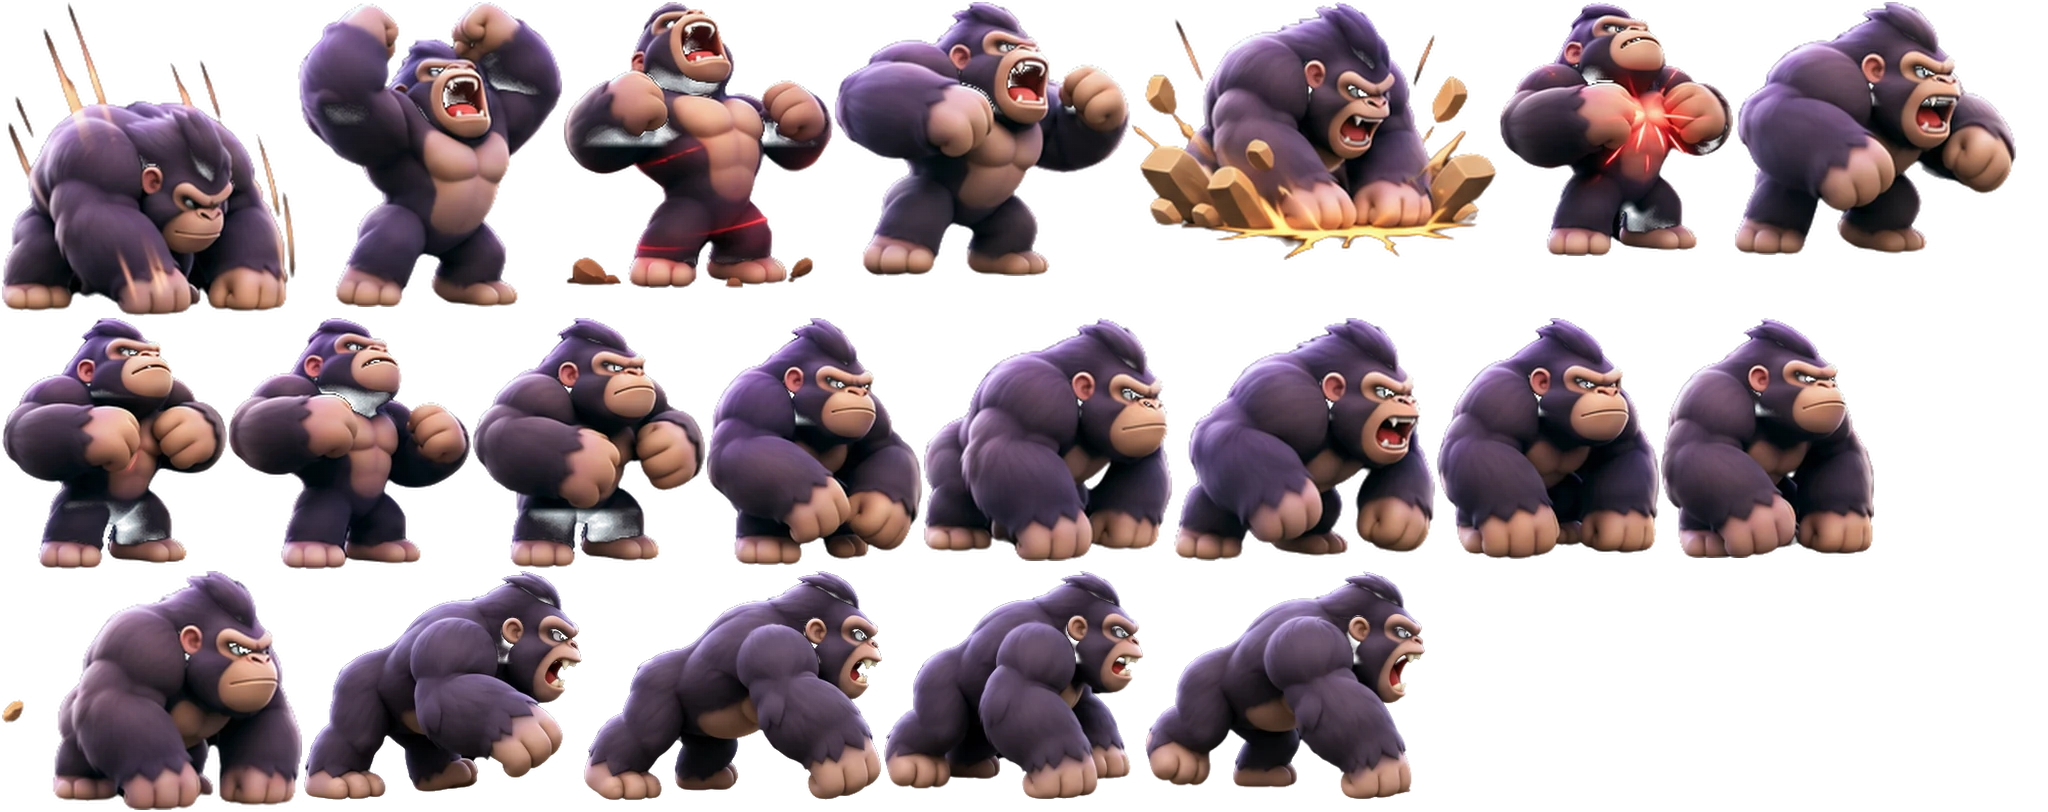
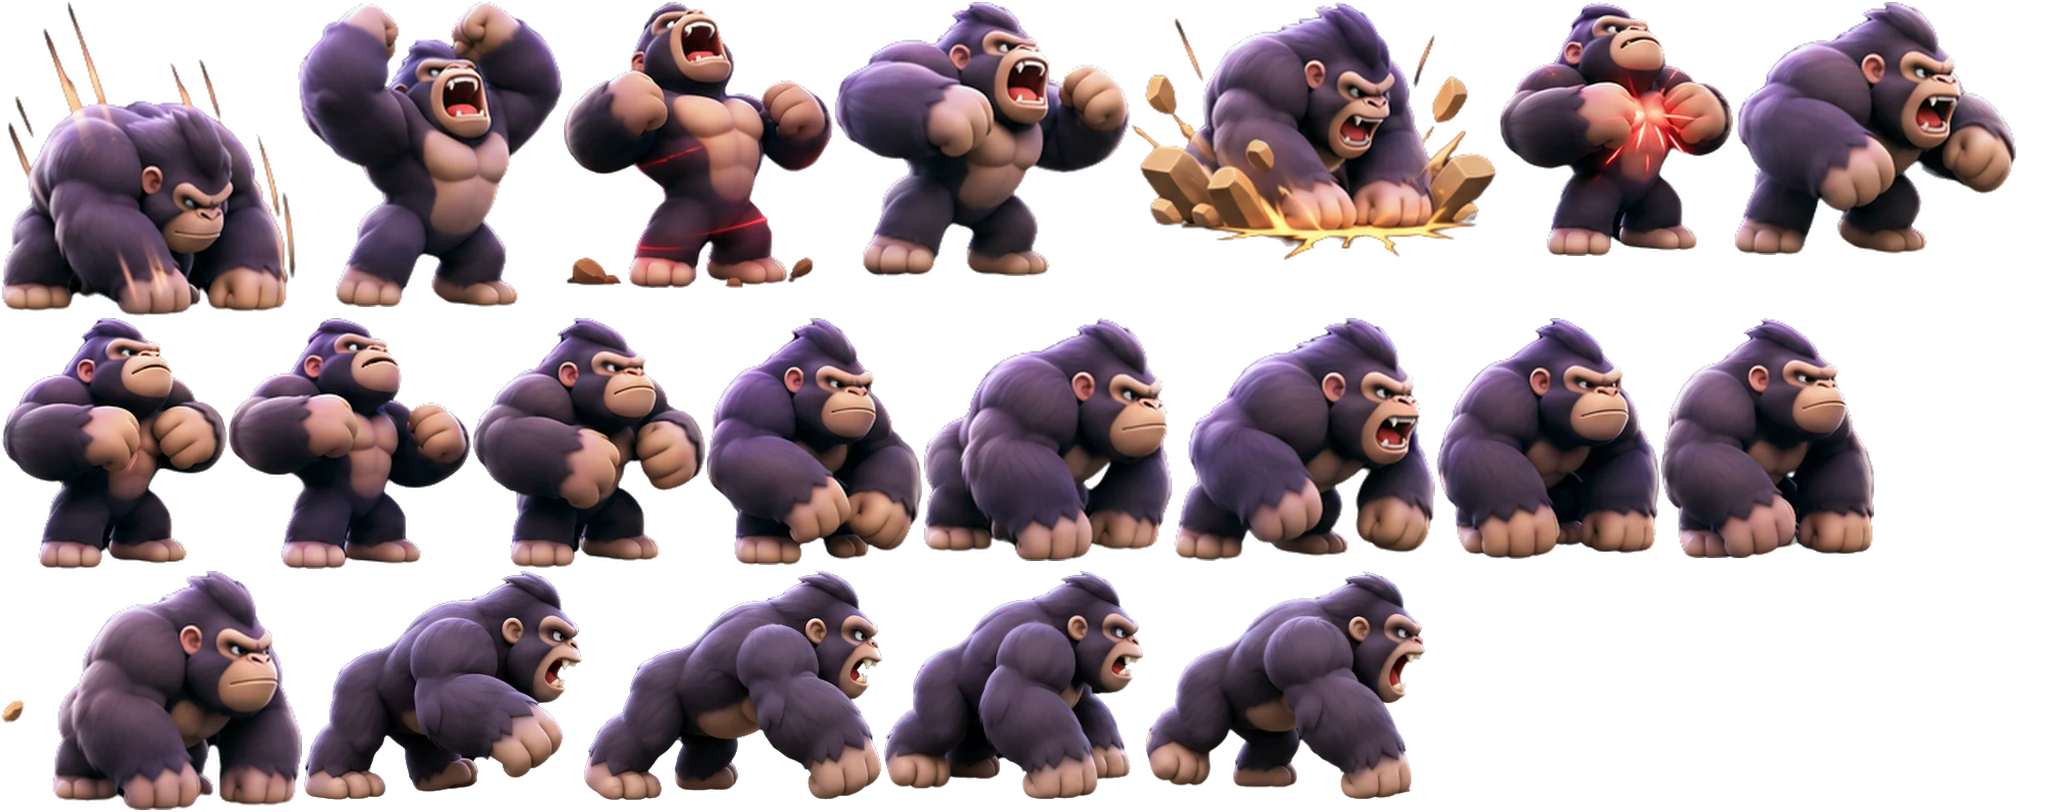
Animations d'attaque sans halos noirs et icône Collection entière
- Effets d'attaque nettoyés (rhinocéros, bouledogue, alligator, aigle, cochon) :
  le fond noir sur lequel ils étaient peints devient transparent ou une lueur
  translucide ; le corps des animaux n'est jamais modifié.
- Plus de trous dans les yeux, la bouche et la fourrure sombre (aigle, gorille,
  éléphant) : l'ancien détourage des planches n'est plus utilisé.
- Aigle, attaque 2 vers la droite : l'image au bec coupé est retirée.
- Onglet Collection : l'icône de l'onglet actif est recopiée au-dessus des pages,
  la liste passe dessous au lieu de la couper.
- Planches en ?v=4 et service worker bb-v8 pour ne plus servir les anciennes.

Claude-Session: https://claude.ai/code/session_011Z415w96nYMxDJBnjhLAvG

diff --git a/src/ui/menu.js b/src/ui/menu.js
@@ -91,7 +91,18 @@ async function fitImages() {
   });
   const stale = FIT; FIT = fit;
   if (stale) TABS.forEach((t) => { const im = stale.bg[t]; if (im !== SRC[t].bg && im !== fit.bg[t] && im.close) im.close(); });   // anciennes images réduites
+  drawCap();
   if (panes[tab]) layout();
+}
+// L'icône de l'onglet actif est aussi recopiée par-dessus les pages : une liste qui descend jusqu'à la barre du bas
+// (la collection) passe dessous au lieu de la couper.
+const capCv = $('navCap'), capCtx = capCv.getContext('2d');
+function drawCap() {
+  if (!FIT || !FIT.cap[tab]) return;
+  const [bx, by, bw, bh] = FIT.box[tab], k = FIT.k;
+  if (capCv.width !== bw || capCv.height !== bh) { capCv.width = bw; capCv.height = bh; } else capCtx.clearRect(0, 0, bw, bh);
+  capCtx.drawImage(FIT.cap[tab], 0, 0);
+  Object.assign(capCv.style, { left: bx / k + 'px', top: by / k + 'px', width: bw / k + 'px', height: bh / k + 'px' });
 }
 // Décode les images du décor (à appeler une fois, après le chargement et avant d'afficher les menus)
 export async function prepare() {
@@ -165,7 +176,7 @@ function setTab(t) {
   tab = t; mount(t).pg.id = 'page';
   const nav = $('nav'); nav.textContent = '';
   NAV[t].forEach(([x0, x1], i) => nav.append(h('button', { class: 'hit', 'aria-label': TABS[i], style: { left: x0 + 'px', top: '0', width: (x1 - x0) + 'px', height: '172px' }, onclick: () => go(TABS[i]) })));
-  liftFixed(); refreshTop();
+  liftFixed(); refreshTop(); drawCap();
 }
 // Place les pages et redessine le décor pour la position actuelle de la rangée
 function layout() {

diff --git a/src/core/assets.js b/src/core/assets.js
@@ -39,8 +39,9 @@ export function json(key, path) {
   return pending['j:' + key] || (pending['j:' + key] = fetch('assets/' + path).then((r) => r.json()).then((j) => { DATA[key] = j; return j; }).catch((e) => { console.warn('json manquant :', key, e); return null; }).finally(() => delete pending['j:' + key]));
 }
 // Ce qu'il faut pour dessiner un animal en combat (hd : la grande planche de l'aperçu de la collection)
-// (?v=2 : les planches du Singe et du Bulldog ont changé de forme, l'ancienne copie gardée hors ligne ne doit pas servir)
-export const unitAssets = (id, hd) => { const k = hd ? id + '_hd' : id; return Promise.all([image(k, 'units/' + k + '.webp?v=3'), json(k, 'units/' + k + '.json?v=3')]); };
+// (?v=4 : changé à chaque nouvelle version des planches, pour que l'ancienne copie gardée hors ligne ne serve plus ;
+// v4 = effets d'attaque sans halo noir)
+export const unitAssets = (id, hd) => { const k = hd ? id + '_hd' : id; return Promise.all([image(k, 'units/' + k + '.webp?v=4'), json(k, 'units/' + k + '.json?v=4')]); };
 // La grande arène : fond en haute définition, mini-carte, masque de l'eau (pour l'animer), éléments détourés (boîtes,
 // cages, tours, machine, tente), barre du bas, fond flouté autour de l'écran, et l'orang-outan qui garde les tours
 export function mapAssets(n) {

diff --git a/styles/menus.css b/styles/menus.css
@@ -7,6 +7,7 @@
 .pane .pg{position:absolute;inset:0}
 .pane .fixed{display:none}   /* pastilles posées sur la barre du bas : recopiées dans #pageFixed, elles ne glissent pas */
 #pageFixed{position:absolute;inset:0;pointer-events:none}
+#navCap{position:absolute;left:0;top:0;width:0;height:0;pointer-events:none}   /* l'icône de l'onglet actif, posée au-dessus des pages */
 #nav{position:absolute;left:0;right:0;top:1500px;height:172px}
 #topbar{position:absolute;left:0;top:0;width:941px;height:84px}
 .tb-lvl{position:absolute;left:55px;top:41px;transform:translate(-50%,-50%);font-size:36px;-webkit-text-stroke-width:6px;text-shadow:0 3px 0 var(--ink)}

diff --git a/sw.js b/sw.js
@@ -1,7 +1,7 @@
 // Beast Brawl! — service worker : le jeu reste jouable hors ligne une fois chargé.
 // Code (html, js, css) : réseau d'abord, pour recevoir les mises à jour tout de suite ; cache si hors ligne.
 // Images, sons, polices : la copie gardée d'abord (affichage immédiat), rafraîchie en arrière-plan.
-const VERSION = 'bb-v7';
+const VERSION = 'bb-v8';
 
 self.addEventListener('install', () => self.skipWaiting());
 self.addEventListener('activate', (e) => {

diff --git a/index.html b/index.html
@@ -34,6 +34,7 @@
     <section id="scrMenu" class="screen" hidden>
       <canvas id="menuCv" width="941" height="1672"></canvas>
       <div id="slider"></div>
+      <canvas id="navCap" width="1" height="1"></canvas>
       <div id="pageFixed"></div>
       <div id="topbar">
         <div class="tb-lvl t" id="tbLvl">1</div>
